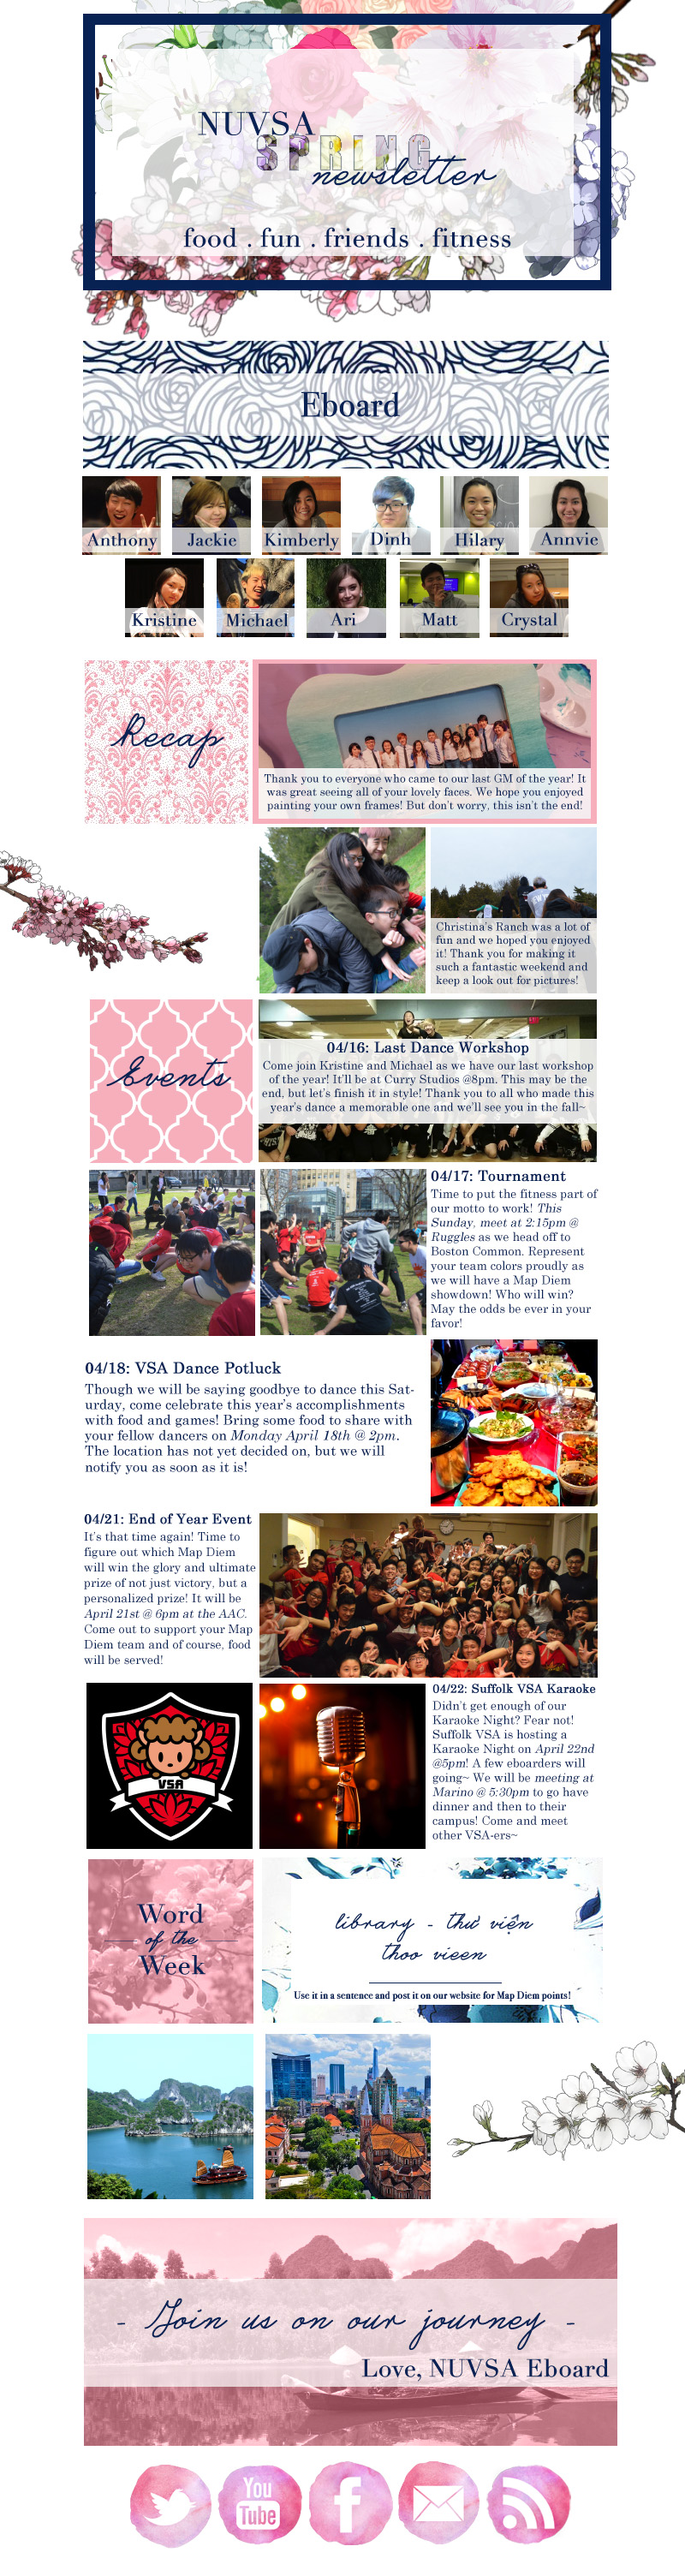
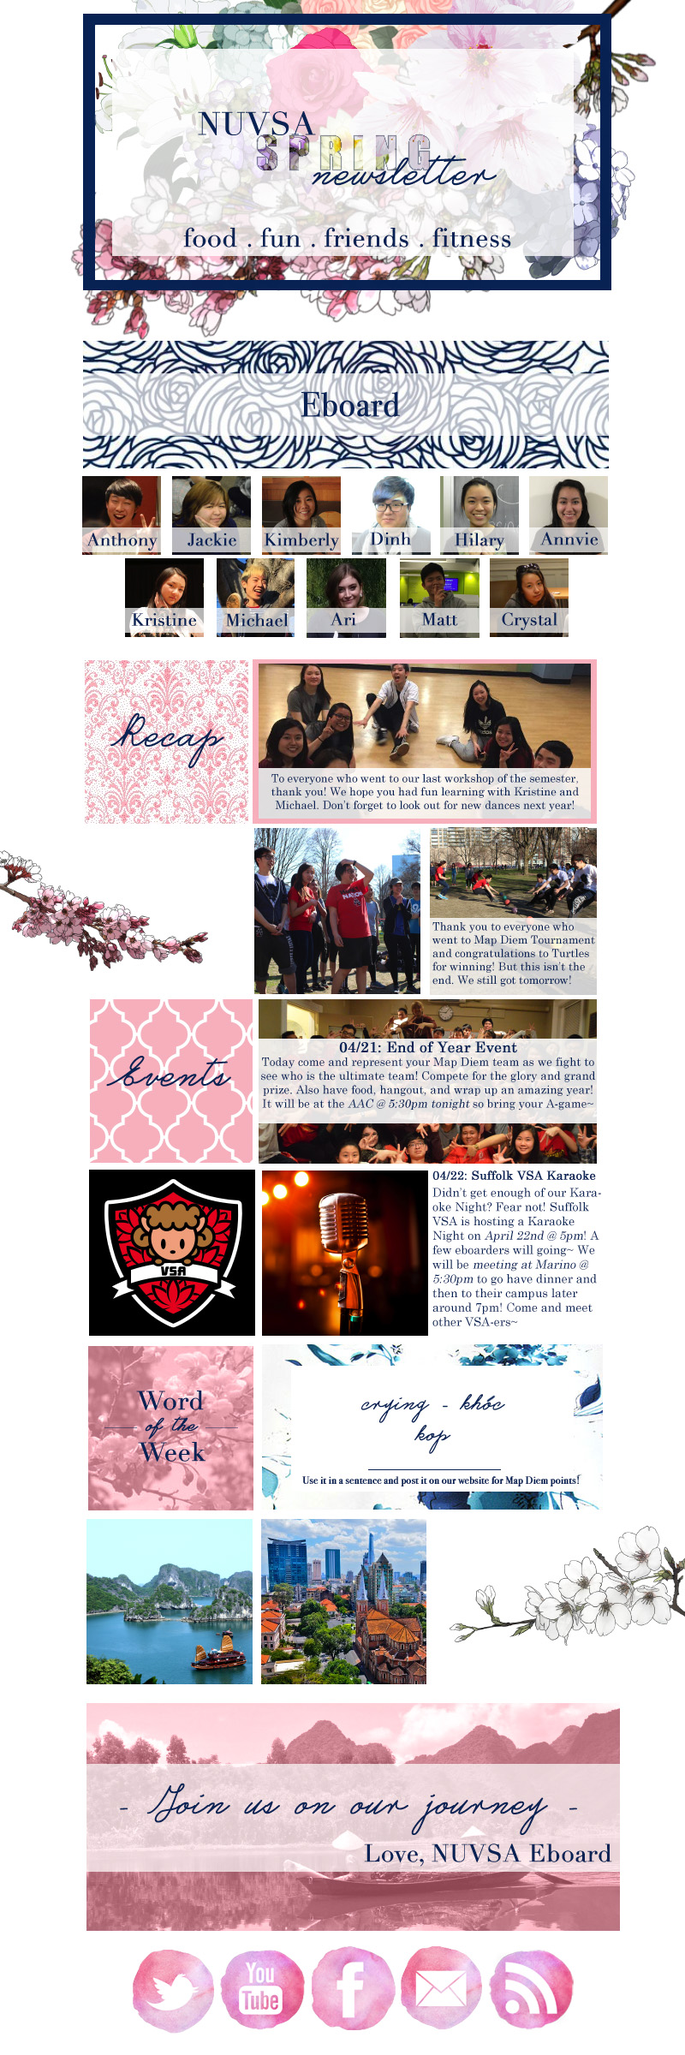
updated current newsletter

diff --git a/index.html b/index.html
@@ -54,19 +54,16 @@
     <!-- Matt was here LOL -->
     <!-- ...mmmm check out dat source -->
     <div id="newsletter-container">
-      <img id="Image-Maps-Com-image-maps-2016-04-15-120150" src="images/springNewsletter.jpg" border="0" width="800" height="3008" orgWidth="800" orgHeight="3008" usemap="#image-maps-2016-04-15-120150" alt="" />
+      <img id="Image-Maps-Com-image-maps-2016-04-21-125314" src="images/springNewsletter.jpg" border="0" width="800" height="2400" orgWidth="800" orgHeight="2400" usemap="#image-maps-2016-04-21-125314" alt="" />
       <!--<canvas id="centipede-container" width="400" height="1000" style="position:absolute;z-index:1;border:1px solid black;">Your browser does not support the HTML5 canvas tag.</canvas>-->
     </div>
-    <map name="image-maps-2016-04-15-120150" id="ImageMapsCom-image-maps-2016-04-15-120150">
-<area  alt="" title="" href="javascript:rickRoll()" shape="rect" coords="95,554,188,648" style="outline:none;" target="_self"     />
-<area  alt="" title="" href="https://www.facebook.com/events/1590667341248432/" shape="rect" coords="301,1166,697,1358" style="outline:none;" target="_self"     />
-<area  alt="" title="" href="https://www.facebook.com/events/1697257277219489/" shape="rect" coords="103,1365,701,1557" style="outline:none;" target="_self"     />
-<area  alt="" title="" href="https://www.facebook.com/events/135288503537970/" shape="rect" coords="94,1562,700,1760" style="outline:none;" target="_self"     />
-<area  alt="" title="" href="https://www.facebook.com/events/1728958770660136/" shape="rect" coords="91,1766,699,1959" style="outline:none;" target="_self"     />
-<area  alt="" title="" href="https://www.facebook.com/events/1072762812785819/" shape="rect" coords="99,1964,707,2157" style="outline:none;" target="_self"     />
-<area  alt="" title="" href="http://www.vsa.neu.edu/#cboxdiv" shape="rect" coords="101,2169,709,2362" style="outline:none;" target="_self"     />
-<area shape="rect" coords="798,3006,800,3008" alt="Image Map" style="outline:none;" title="Image Map" href="http://www.image-maps.com/index.php?aff=mapped_users_0" />
-</map>
+    <map name="image-maps-2016-04-21-125314" id="ImageMapsCom-image-maps-2016-04-21-125314">
+      <area  alt="" title="" href="javascript:rickRoll()" shape="rect" coords="95,556,187,650" style="outline:none;" target="_self"     />
+      <area  alt="" title="EOY Event!!" href="https://www.facebook.com/events/1728958770660136/" shape="rect" coords="300,1165,697,1359" style="outline:none;" target="_self"     />
+      <area  alt="" title="Word of the Week" href="http://www.vsa.neu.edu/#cboxdiv" shape="rect" coords="101,1572,703,1766" style="outline:none;" target="_self"     />
+      <area  alt="" title="SUVSA Karaoke!!" href="https://www.facebook.com/events/1072762812785819/" shape="rect" coords="103,1364,705,1558" style="outline:none;" target="_self"     />
+      <area shape="rect" coords="798,2398,800,2400" alt="Image Map" style="outline:none;" title="Image Map" href="http://www.image-maps.com/index.php?aff=mapped_users_0" />
+    </map>
   </body>
   <script>
     // You even want to look at the Javascript? Fine, have a special Easter egg: https://goo.gl/cchu7
